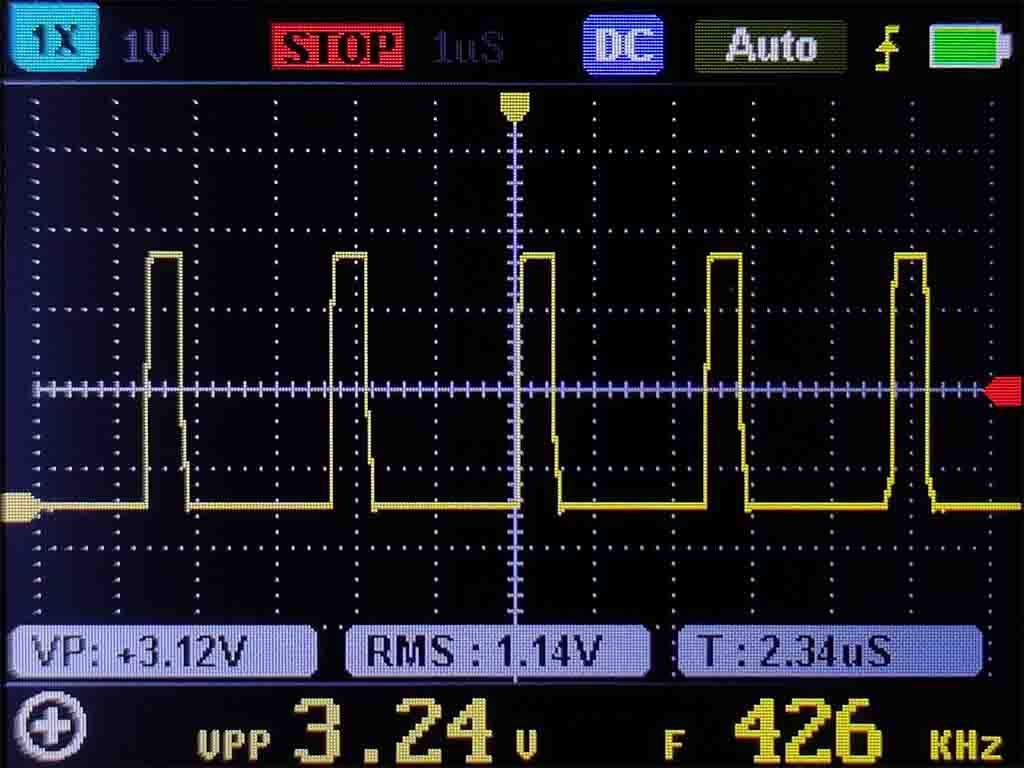
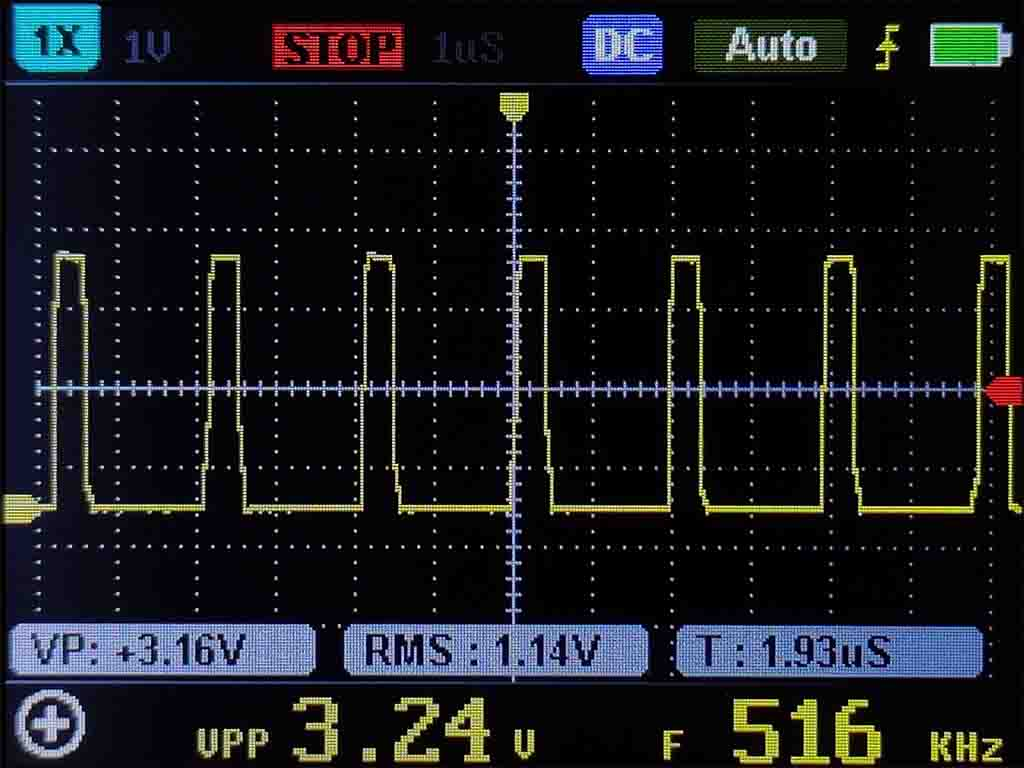
add wiringOP test result

diff --git a/README.md b/README.md
@@ -34,13 +34,14 @@ gpio.Write(7, PinValue.High);
 
 ## Benchmark
 
-Benchmarking with Orange Pi 4. The operating system is Armbian, Linux kernel version is 5.10.16, and .NET version is 5.0.3. The test uses different GPIO drivers to quickly switch the state of GPIO 150 (Logical), and uses an oscilloscope to measure the average frequency of GPIO externally.
+Benchmarking with Orange Pi 4. The operating system is Armbian bullseye, Linux kernel version is 4.4.213, and .NET version is 5.0.3. The test uses different GPIO drivers to quickly switch the state of GPIO 150 (Logical), and uses an oscilloscope to measure the average frequency of GPIO externally.
 
-| Drivers | Library Version | Average Frequency |  |
-| :-: | :-: | :-: | :-: |
-| RockchipDrivers | - | 426 KHz | <img src="imgs/rockchip.jpg" height="100"/> |
-| SysFsDrivers | System.Device.Gpio 1.3.0 | 3.99 KHz | <img src="imgs/sysfs.jpg" height="100"/> |
-| LibGpiodDrivers | System.Device.Gpio 1.3.0 <br/> libgpiod 1.2-3 | Unable to test due to segment fault | - |
+| Drivers| Language | Library Version | Average Frequency |  |
+| :-: | :-: | :-: | :-: | :-: |
+| RockchipDriver | C# | - | 516 KHz | <img src="imgs/rockchip.jpg" height="120"/> |
+| SysFsDriver | C# | System.Device.Gpio 1.3.0 | 4.27 KHz | <img src="imgs/sysfs.jpg" height="120"/> |
+| LibGpiodDriver | C# | System.Device.Gpio 1.3.0 <br/> libgpiod 1.6.2-1 | Unable to test due to segment fault | - |
+| [wiringOP](https://github.com/orangepi-xunlong/wiringOP) | C | 35de015 | 584 KHz | <img src="imgs/wiringOP.jpg" height="120"/> |
 
 ## Adding new drivers
 
@@ -84,7 +85,7 @@ Benchmarking with Orange Pi 4. The operating system is Armbian, Linux kernel ver
         MapPinNumber(2, 'A', 2), MapPinNumber(3, 'A', 4), -1, MapPinNumber(3, 'A', 6)
     };
 
-    protected override int PinCount => _pinNumberConverter.Count(n => n != -1);
+    protected override int PinCount => 5;
 
     protected internal override int ConvertPinNumberToLogicalNumberingScheme(int pinNumber)
     {
